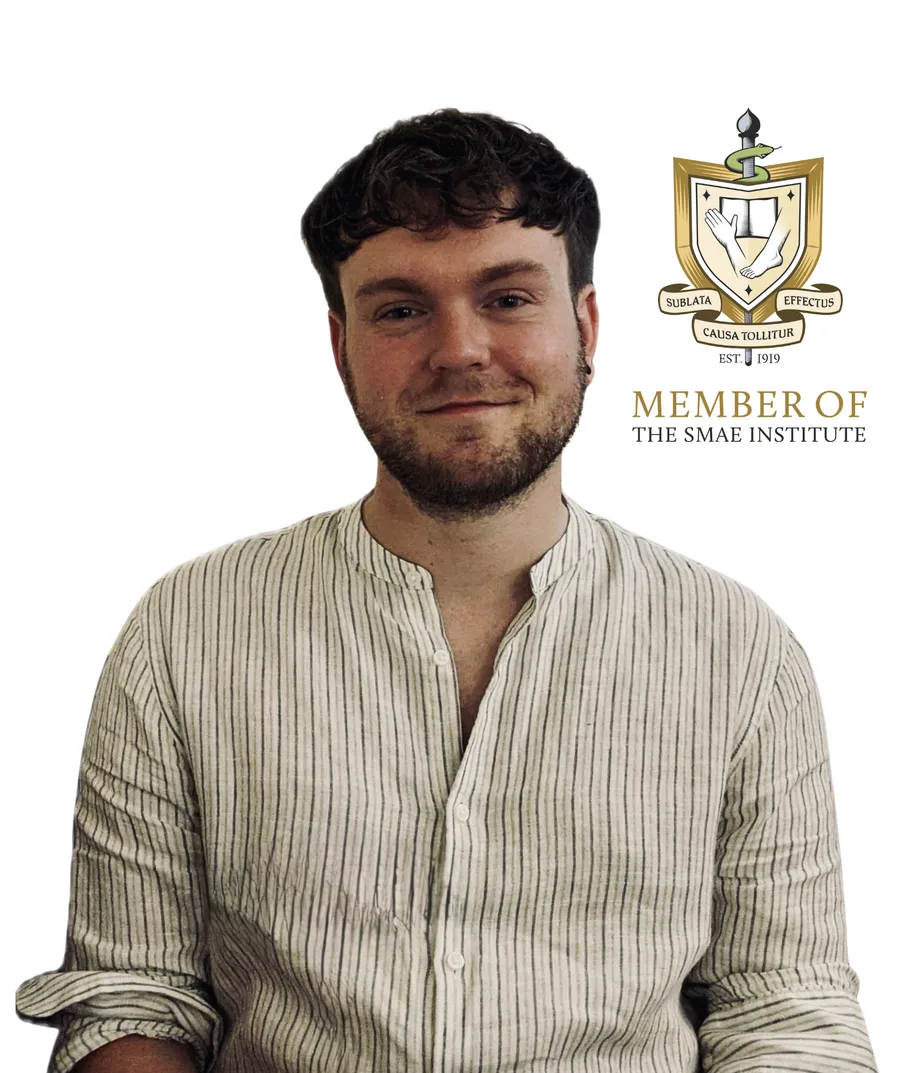
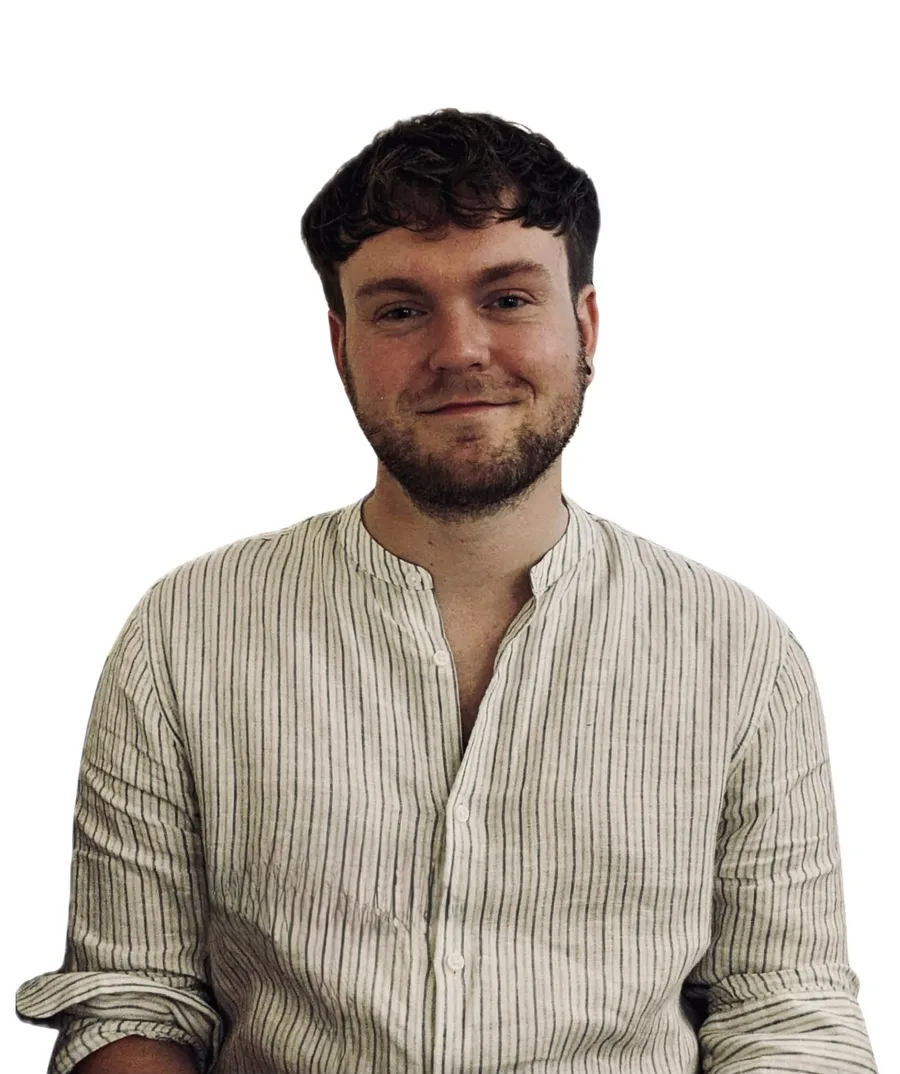
Use new portrait of Adam and remove foot graphic from hero
Claude-Session: https://claude.ai/code/session_01PMMaqEVXq6N7cDistbNccD

Changed region(s): [[0.7156, 0.0923, 0.9333, 0.3383], [0.6844, 0.3691, 0.9644, 0.4306]]

diff --git a/app/components/HomeContent.tsx b/app/components/HomeContent.tsx
@@ -139,13 +139,6 @@ function Hero() {
             aria-hidden="true"
           >
             <div className="absolute inset-0 bg-linear-to-br from-brand-sage/20 to-brand-sageDeep/55" />
-            <Image
-              src="/images/foot-health-practitioner-home-visit-bristol.png"
-              alt=""
-              width={300}
-              height={560}
-              className="absolute -bottom-16 -right-8 h-[85%] w-auto opacity-20"
-            />
           </div>
 
           <div className="absolute left-5 top-6 h-[62%] w-[58%] overflow-hidden rounded-3xl bg-white shadow-[0_30px_60px_-30px_rgba(0,0,0,0.6)] md:left-20 md:top-10">
@@ -219,7 +212,7 @@ function Locations() {
               </div>
             </div>
             <div className="relative h-20 w-20 shrink-0 overflow-hidden rounded-full bg-white sm:h-auto sm:w-36 sm:rounded-2xl">
-              <Image src="/images/adam-james.webp" alt="" fill sizes="144px" className="object-cover object-[32%_15%]" />
+              <Image src="/images/adam-james.webp" alt="" fill sizes="144px" className="object-cover object-[center_20%]" />
             </div>
           </article>
 
